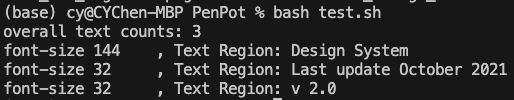
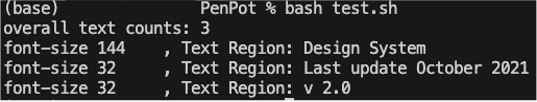
modify img background for improving readability

Changed region(s): [[0.0, 0.0, 1.0, 1.0]]

diff --git a/Approach#2-Text-to-image_or_Image-to-text_in_whole_design/Readme.md b/Approach#2-Text-to-image_or_Image-to-text_in_whole_design/Readme.md
@@ -40,7 +40,7 @@ Top-down image segmentation by Meta-SAM [[Website](https://segment-anything.com/
 
 Try #1
     
-![Demo_for_segment1_groundingDino.png](reports/figures/Demo_for_segment1_groundingDino.png)
+![Demo_for_segment1_groundingDino.png](reports/figures/Demo_for_segment1_groundingDino.jpg)
 
 Text placeholders extraction with SVG:
 
@@ -48,13 +48,13 @@ Text placeholders extraction with SVG:
 
 Try #2
 
-![Demo_for_segment2.png](reports/figures/Demo_for_segment2.png)
+![Demo_for_segment2.png](reports/figures/Demo_for_segment2.jpg)
 
 → Need the help of svg or UI segment
 
 Try #3
 
-![Demo_for_segment3.png](reports/figures/Demo_for_segment3.png)
+![Demo_for_segment3.png](reports/figures/Demo_for_segment3.jpg)
 
 
 **Requirements**
@@ -72,6 +72,22 @@ Try #3
     - Style analysis model: 
         - vgg-19 [[PyTorch](https://pytorch.org/hub/pytorch_vision_vgg/)]
         - textual inversion [[Github](https://github.com/rinongal/textual_inversion)]
+
+    - Text-to-RasterImage generator:
+
+        - Latent Diffusion Model [[Paper](references/research_papers/LDM.pdf)] [[Github](https://github.com/CompVis/latent-diffusion)]
+
+        - Composable-Diffusion: support compositional text prompt [[Website](references/research_papers/Compositional-Visual-Generation-with-Composable-Diffusion-Models.pdf)] [[Github](https://github.com/energy-based-model/Compositional-Visual-Generation-with-Composable-Diffusion-Models-PyTorch)]
+
+        - ControlNet: adding more control by image/sketch [[Paper](references/research_papers/ControlNet.pdf)] [[Github](https://github.com/lllyasviel/ControlNet)] [[WebUI extension](https://github.com/Mikubill/sd-webui-controlnet)]
+
+        - GigaGAN [[Website](https://mingukkang.github.io/GigaGAN/)]
+
+        - Editing images:
+            - GroundingDINO: regional image editing [[Github](https://github.com/IDEA-Research/GroundingDINO/blob/main/demo/image_editing_with_groundingdino_gligen.ipynb)]
+            - Drag-your-GAN [[Website](https://vcai.mpi-inf.mpg.de/projects/DragGAN/)] [[Github](https://github.com/XingangPan/DragGAN)]
+            - Edit Everything [[paper](references/research_papers/EditEverything.pdf)] [[Github](https://github.com/DefengXie/Edit_Everything)]
+    
     - Image-to-text: GPT4
 - A python script for extracting text placeholders
 - Input: a design with selected images or texts
@@ -84,10 +100,7 @@ Try #3
 
 [Research] 
 
-- VectorFusion [[Paper](references/research_papers/VectorFusion.pdf)]: text-to-image-to-vector method
-- IconShop [[Paper](references/research_papers/IconShop.pdf)]: The key to the success of IconShop is to exploit the sequential nature of SVG. Design a transformer-based architecture to achieve text-to-SVG.
-    - with black-and-white icon dataset, [FIGR-8](https://github.com/marcdemers/FIGR-8)
-- Raster-to-Vector tool: open-source model Vtracer [[Github](https://github.com/visioncortex/vtracer)]
+List above in the requirements
 
 [Business solutions]
 <details>
@@ -116,30 +129,45 @@ Try #3
 </details>
 
 <details>
-<summary>iconomy.app</summary>
+<summary>flair.ai</summary>
 
-- Reference: [[Try the Demo](https://run.iconomy.app/)]
-- 👍 have web UI; the result is acceptable
+- Reference: [[Website](https://flair.ai/)] [[Demo](https://twitter.com/flairAI_)]
+- based on (a) product image and (b) text prompt, generate the final design
+ - **Learning**
+            
+    We could learn its UX design, providing `text chunk hint` and `template design along its text prompt` to assist users to input more specific text prompts and get results with expected performance
     
-    ![UI sample.png](reports/figures/UI_sample.png)
+    ![flair demo [eng].png](reports/figures/flair_demo_eng.png)
     
-- 👎 no API; only 5 trys for free
+- **Try some results**:
+    
+    Prompt: **"vitali on top of a natural hill, in front of mountains and cloudy skies in the background"**
+    
+    ![fSXxKAbHGUks3x24ramv.jpeg](reports/figures/fSXxKAbHGUks3x24ramv.jpeg)
+    
+    Prmpot: **"vitali emerging from ripples in a lake surrounded by plants and flowers, with sunlight streaming down"**
+    
+    ![IP4bRbZfwvnpBby0Iepv.jpeg](reports/figures/IP4bRbZfwvnpBby0Iepv.jpeg)
+    
+    The results considering contours and text prompt is not impressive:
+    
+    Prompt: **"vitali on hand with hot air balloon floating in the background, in front of mountains and cloudy skies in the background"**
+    
+    ![sketch to image.png](reports/figures/sketch_to_image.png)
 
 </details>
 
-- Adobe Vectorisation [[Website](https://www.adobe.com/express/feature/image/convert/svg)]
-
+- Microsoft Designer [[Website](https://designer.microsoft.com/)]
 
 
 ## Pros and Cons
 
 🟢 Pros
-
-- Could leverage foundation models to generate decent raster image (if we choose the solution of raster-to-svg)
-- Have two state-of-the-art research solutions with different generative architectures for guidance
-- Have sufficient dataset
+    
+- Could leverage foundation models to generate decent raster image
+- More research-active area
 
 🔴 Cons
 
-- No respective open-source Github repo available for checking the performance of the research paper
-- Generation quality has the risk of not meeting the designer's requirements since there is limited research on SVG generation
+- The open-source UI segment dataset is old, published in 2017, which might be out of date. We might need to collect and annotate a new one by ourselves
+- Generation quality has the risk of not meeting the designer's requirements
